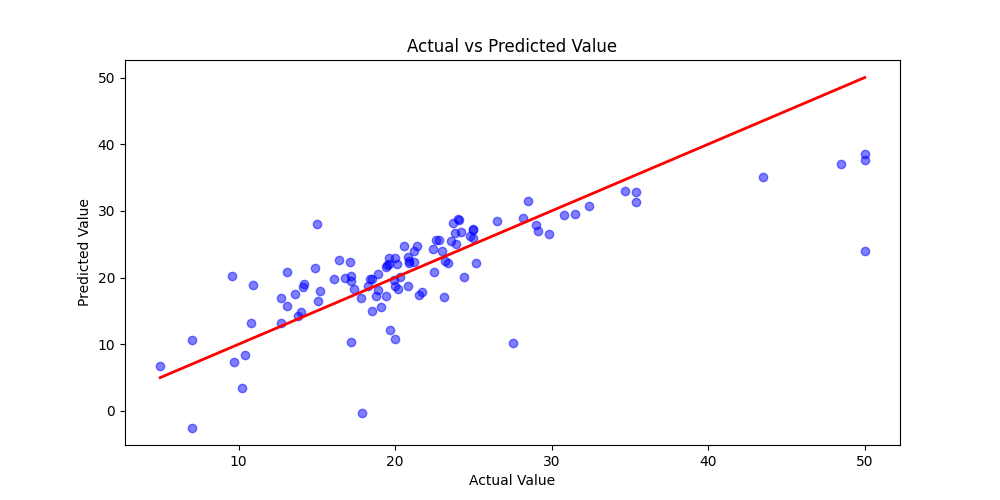
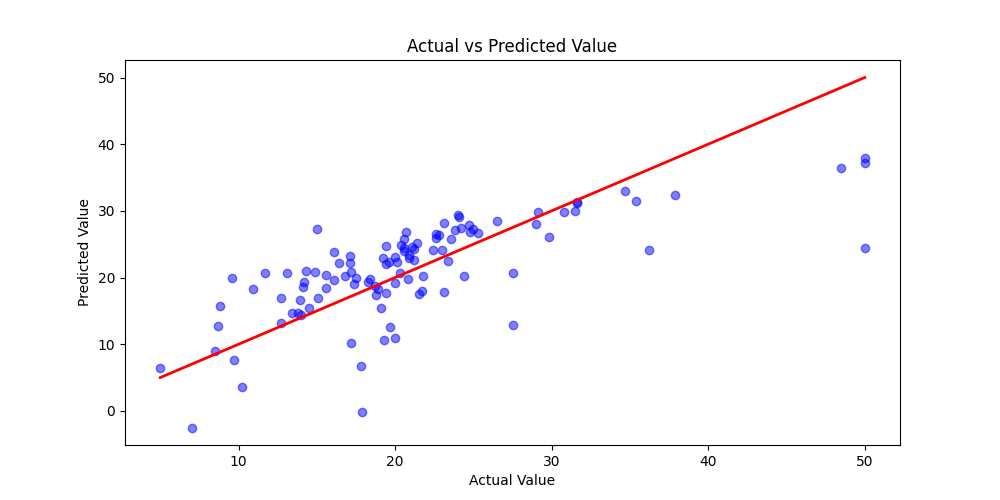
Implement Grid Search for hyperparameter tuning in training scripts and adjust data splitting strategy

diff --git a/train.py b/train.py
@@ -1,7 +1,7 @@
 import pandas as pd
 from sklearn.impute import SimpleImputer
 from sklearn.linear_model import LinearRegression
-from sklearn.model_selection import train_test_split
+from sklearn.model_selection import train_test_split, GridSearchCV
 from sklearn.metrics import mean_squared_error, r2_score
 import matplotlib.pyplot as plt
 import seaborn as sns
@@ -61,23 +61,34 @@ y_target = dataset_inputer['MEDV']
 # ------------------------------
 
 # Split data
-X_train, X_test, y_train, y_test = train_test_split(X_features, y_target, test_size=0.2, random_state=42)
-
+X_train, X_test, y_train, y_test = train_test_split(X_features, y_target, test_size=0.3, random_state=42)
+X_val, X_test, y_val, y_test = train_test_split(X_test, y_test, test_size=0.7, random_state=42)
 
 # Train the Model
-model = LinearRegression( )
-model.fit(X_train, y_train)
+model = LinearRegression()
+
+# hyperparameters grid for Grid Search
+param_grid = {
+    'fit_intercept': [True, False],
+}
+
+grid_search = GridSearchCV(model, param_grid, cv=5)
+
+#perform Grid Search with cross-validation
+grid_search.fit(X_train, y_train)
 
 
+
+best_model = grid_search.best_estimator_
 # Predict on test set
-prediction = model.predict(X_test)
+test_prediction = best_model.predict(X_test)
 
 # Predict on training set
-yprediction = model.predict(X_train)
+yprediction = best_model.predict(X_train)
 
 # Evaluate the Model on test set
-test_score = model.score(X_test, y_test)
-test_mse = mean_squared_error(y_test, prediction)
+test_score = best_model.score(X_test, y_test)
+test_mse = mean_squared_error(y_test, test_prediction)
 
 
 print("----------------BOSTON HOUSE------------------ \n")
@@ -87,14 +98,14 @@ print(f"Test Set - Mean Squared Error: {test_mse}")
 
 print("---------------------------------------------")
 # Evaluate the Model on training set
-train_score = model.score(X_train, y_train)
+train_score = best_model.score(X_train, y_train)
 train_mse = mean_squared_error(y_train, yprediction)
 
 print(f"Training Set - Model mean Accuracy: {train_score}")
 print(f"Training Set - Mean Squared Error: {train_mse}")
 
 # save the model
-joblib.dump(model, 'BostonHouse_prediction.pkl')
+joblib.dump(best_model, 'BostonHouse_prediction.pkl')
 
 
 # Test using save model
@@ -119,7 +130,7 @@ print(f"interpretation-  {predicted_result[0]:.2f} Median value of owner-occupie
 
 # Plot Actual vs Predicted Value
 plt.figure(figsize=(10, 5))
-plt.scatter(y_test, prediction, color='blue', label='Actual vs Predicted', alpha=0.5)
+plt.scatter(y_test, test_prediction, color='blue', label='Actual vs Predicted', alpha=0.5)
 plt.plot([y_target.min(), y_target.max()], [y_target.min(), y_target.max()], color='red', lw=2, label='Perfect Prediction')
 plt.title('Actual vs Predicted Value')
 plt.xlabel('Actual Value')
@@ -127,7 +138,7 @@ plt.ylabel('Predicted Value')
 plt.savefig('actual_vs_predicted.png')
 
 # Plot Residuals
-residuals = y_test - prediction
+residuals = y_test - test_prediction
 plt.figure(figsize=(10, 5))
 sns.histplot(residuals, kde=True, color='purple')
 plt.title('Residuals Distribution')

diff --git a/train2.py b/train2.py
@@ -1,5 +1,5 @@
 import pandas as pd
-from sklearn.model_selection import train_test_split
+from sklearn.model_selection import train_test_split, GridSearchCV
 from sklearn.linear_model import LogisticRegression
 from sklearn.impute import SimpleImputer
 from sklearn.metrics import accuracy_score
@@ -39,22 +39,34 @@ y_target = dataset_inputer['Species']
 # ------------------------------
 
 # Split the data into training and testing sets
-X_train, X_test, y_train, y_test = train_test_split(X_features, y_target, test_size=0.2, random_state=42)
-
+X_train, X_test, y_train, y_test = train_test_split(X_features, y_target, test_size=0.3, random_state=42)
+X_val, X_test, y_val, y_test = train_test_split(X_test, y_test, test_size=0.7, random_state=42)
 #train the model
 model = LogisticRegression(max_iter=200)
-model.fit(X_train, y_train)
 
+# hperparameter tuning
+param_grid ={
+    'fit_intercept': [True, False],
+    'C': [0.1, 1, 10, 100],
+}
+grid_search = GridSearchCV(estimator=model, param_grid=param_grid, cv=3, n_jobs=-1)
+
+#best model
+grid_search.fit(X_train, y_train)
+best_model = grid_search.best_estimator_
+
+
+best_model.fit(X_train, y_train)
 # Make predictions
-y_pred = model.predict(X_test)
-x_pred = model.predict(X_train)
+y_pred = best_model.predict(X_test)
+x_pred = best_model.predict(X_train)
 
 # Calculate accuracy
 test_accuracy = accuracy_score(y_test, y_pred)
 train_accuracy = accuracy_score(y_train, x_pred)
 
 # save the model
-joblib.dump(model, 'Iris_prediction.pkl')
+joblib.dump(best_model, 'Iris_prediction.pkl')
 
 #-------------------------
 # 4. Display Results
